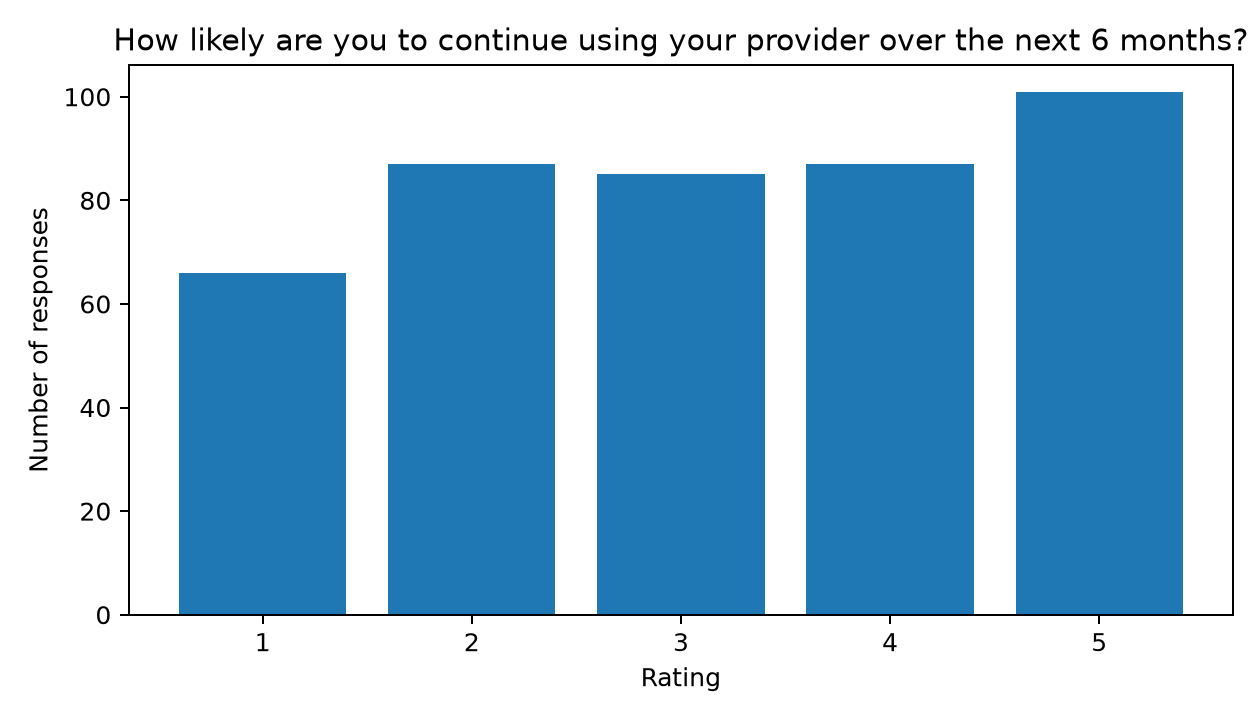
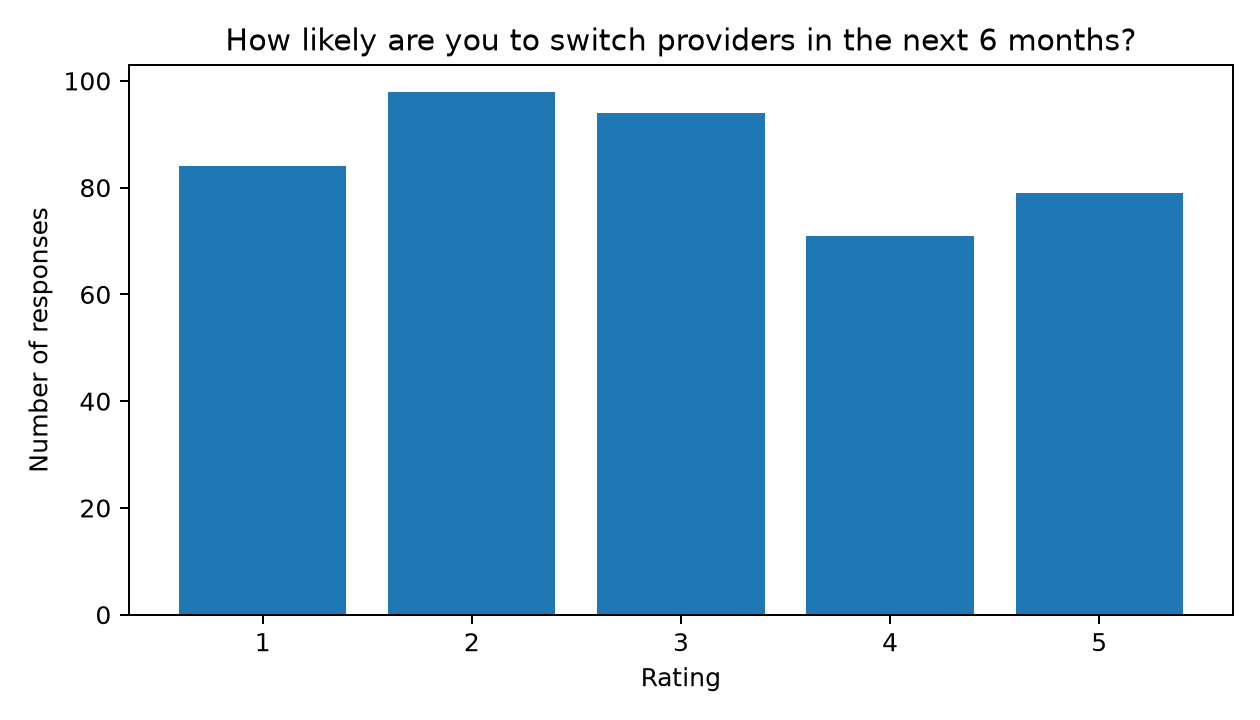
commit

diff --git a/Anand_K_Final_Project_Pack/analyse_survey_and_demo_model.py b/Anand_K_Final_Project_Pack/analyse_survey_and_demo_model.py
@@ -39,29 +39,42 @@ def survey_analysis(path, out_dir):
     cat_cols = list(df.columns[1:8]) + list(df.columns[11:13]) + list(df.columns[15:18])
     tables = []
     for col in cat_cols:
-        counts = df[col].fillna("No response").value_counts(dropna=False)
+        responses = df[col].dropna()
+        counts = responses.value_counts()
         for value, count in counts.items():
             tables.append({"question": col, "response": str(value), "frequency": int(count),
-                           "percentage": round(100 * count / len(df), 1)})
+                           "percentage": round(100 * count / len(responses), 1)})
     pd.DataFrame(tables).to_csv(out_dir / "Survey_Frequency_Tables.csv", index=False)
 
-    rating_cols = [df.columns[i] for i in [8, 9, 10, 13, 14]]
+    rating_question_numbers = [9, 10, 11, 14, 15]
+    distribution_names = {
+        9: "satisfaction",
+        10: "reliability",
+        11: "value",
+        14: "continue",
+        15: "switch",
+    }
+    rating_cols = [(number, df.columns[number]) for number in rating_question_numbers]
     summary = []
-    for col in rating_cols:
+    for question_number, col in rating_cols:
         values = pd.to_numeric(df[col], errors="coerce")
+        answered_count = int(values.notna().sum())
+        ratings_4_or_5_count = int((values >= 4).sum())
         summary.append({
             "measure": col, "mean_1_to_5": round(values.mean(), 3),
-            "ratings_4_or_5_n": int((values >= 4).sum()),
-            "ratings_4_or_5_pct": round(100 * (values >= 4).mean(), 1)
+            "ratings_4_or_5_n": ratings_4_or_5_count,
+            "ratings_4_or_5_pct": round(100 * ratings_4_or_5_count / answered_count, 1)
+            if answered_count else float("nan")
         })
-        counts = values.value_counts().sort_index()
+        counts = values.value_counts().reindex([1, 2, 3, 4, 5], fill_value=0)
         plt.figure(figsize=(7, 4))
         plt.bar(counts.index.astype(str), counts.values)
         plt.xlabel("Rating")
         plt.ylabel("Number of responses")
         plt.title(col.split(". ", 1)[-1])
         plt.tight_layout()
-        plt.savefig(out_dir / (f"rating_{df.columns.get_loc(col)+1}.png"), dpi=180)
+        plt.savefig(out_dir / f"rating_{question_number}.png", dpi=180)
+        plt.savefig(out_dir / f"{distribution_names[question_number]}_distribution.png", dpi=180)
         plt.close()
     pd.DataFrame(summary).to_csv(out_dir / "Survey_Rating_Summary.csv", index=False)
     print("\nRating summary:")
